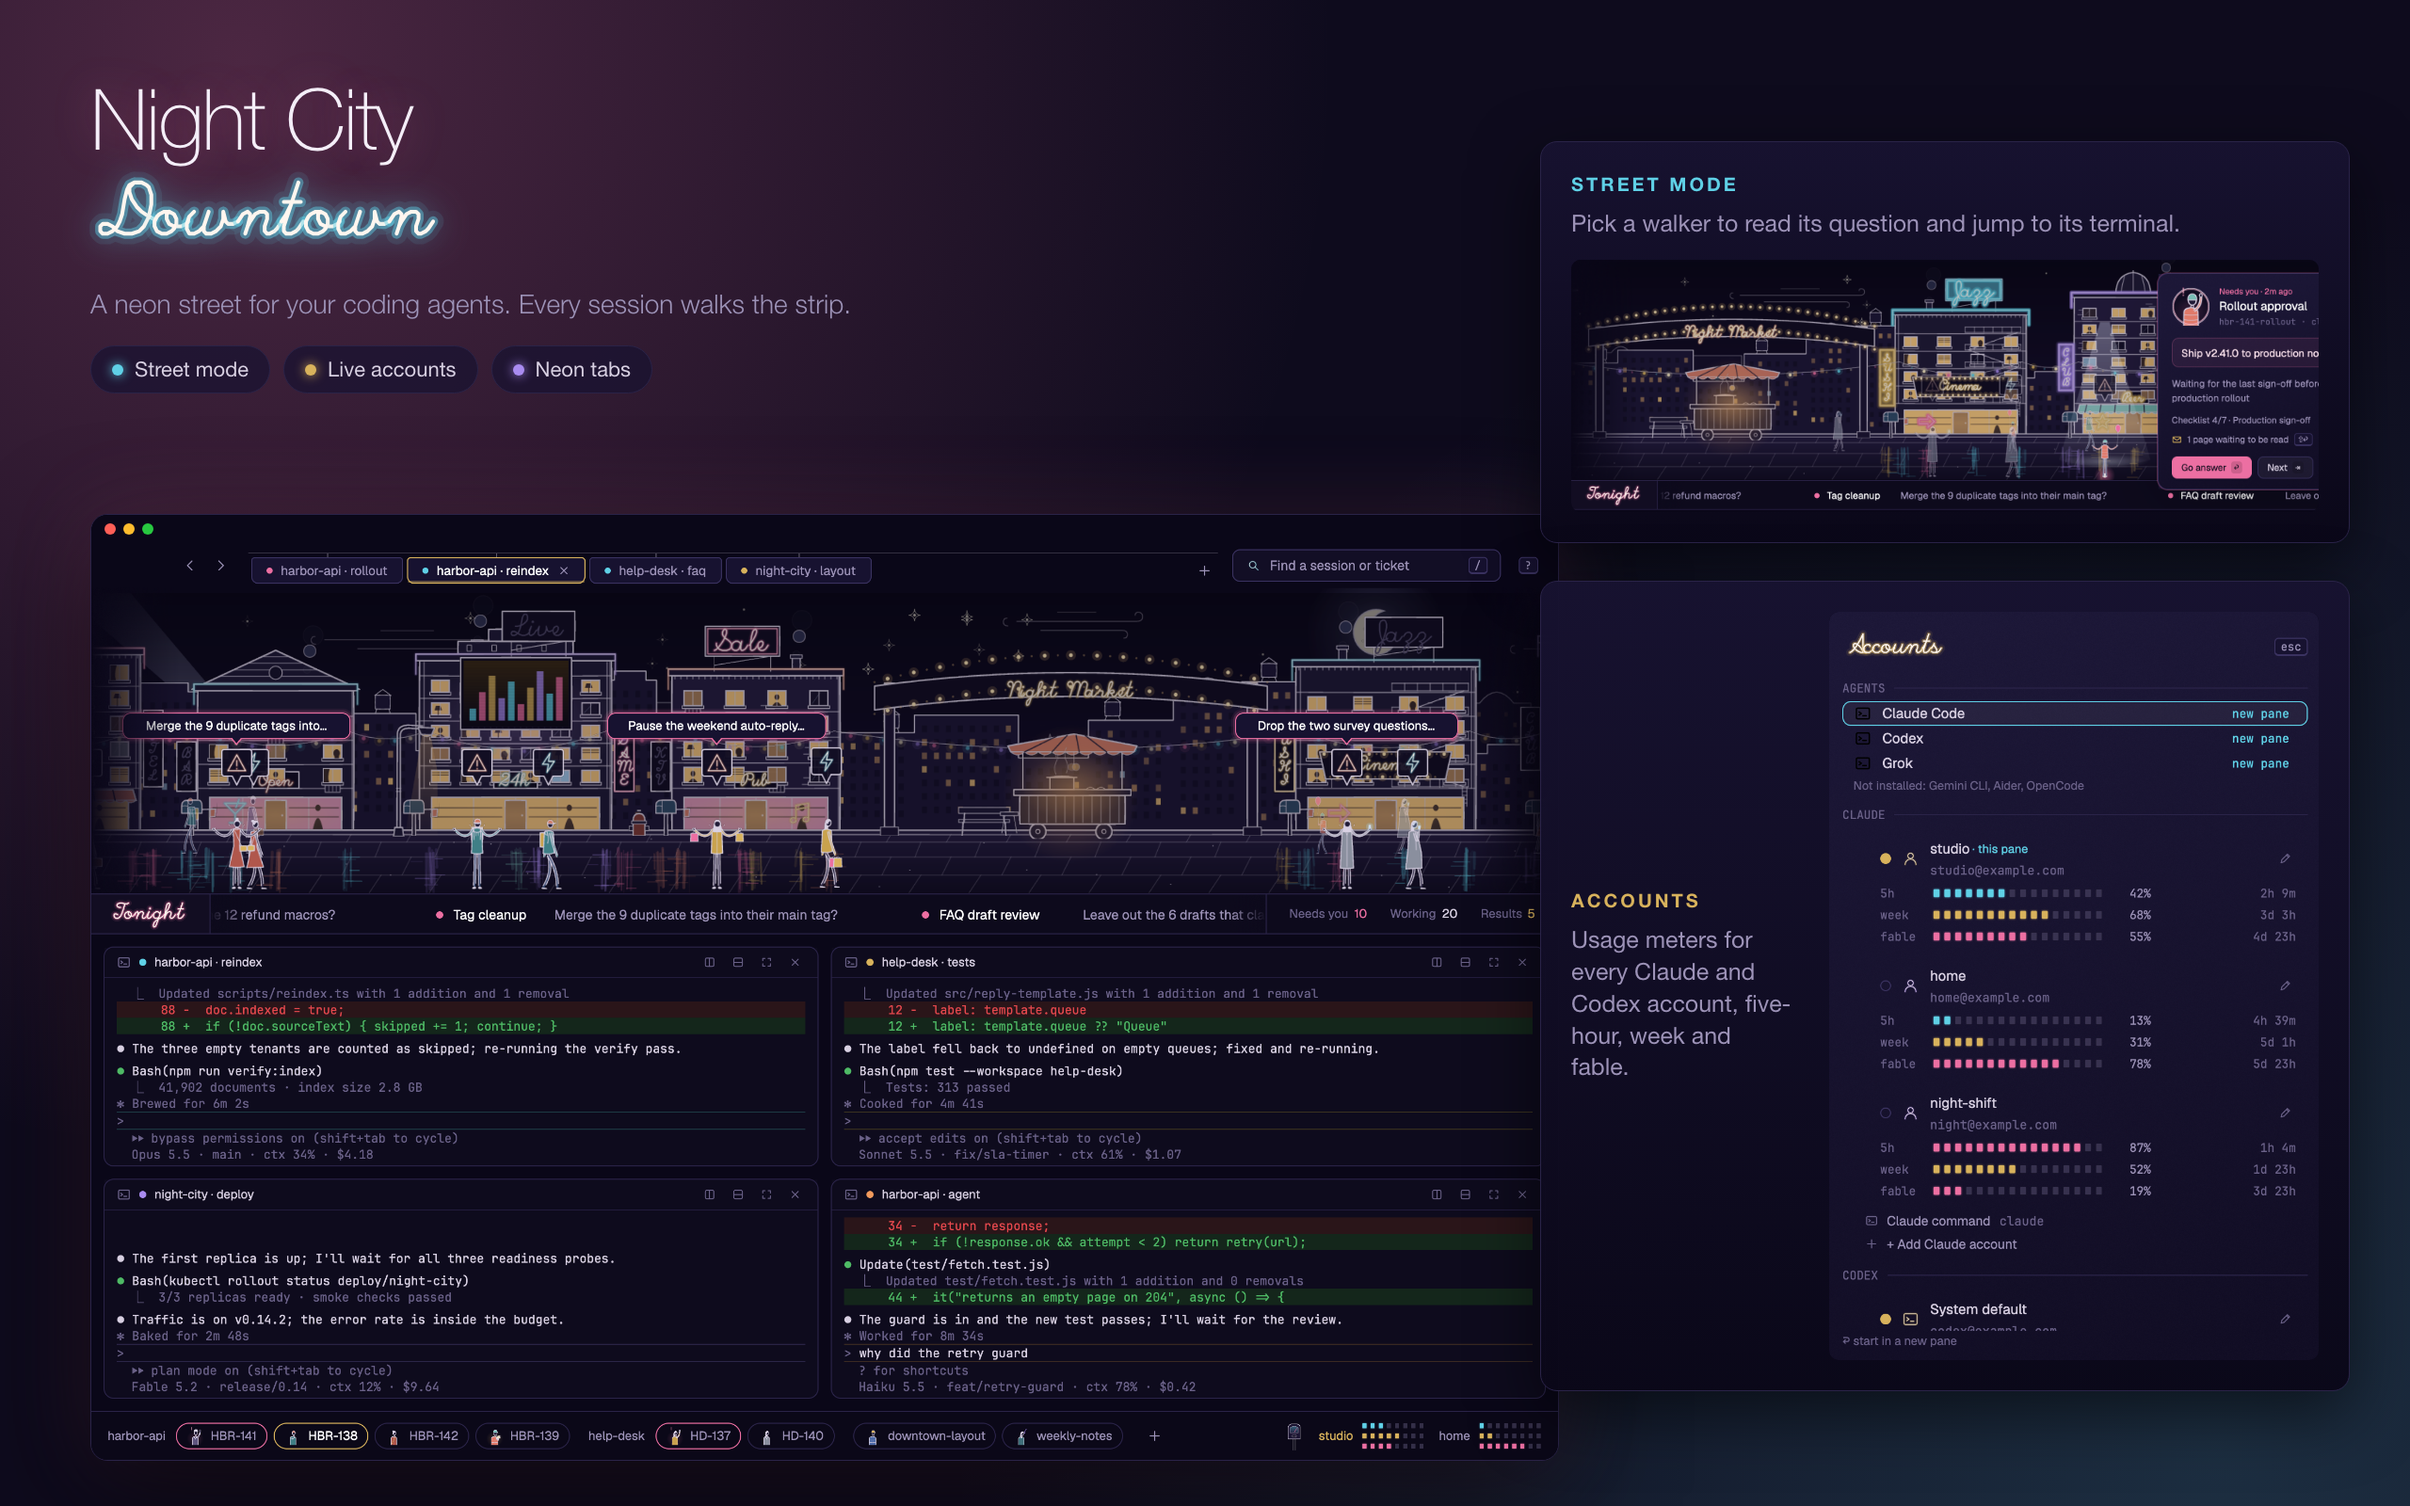
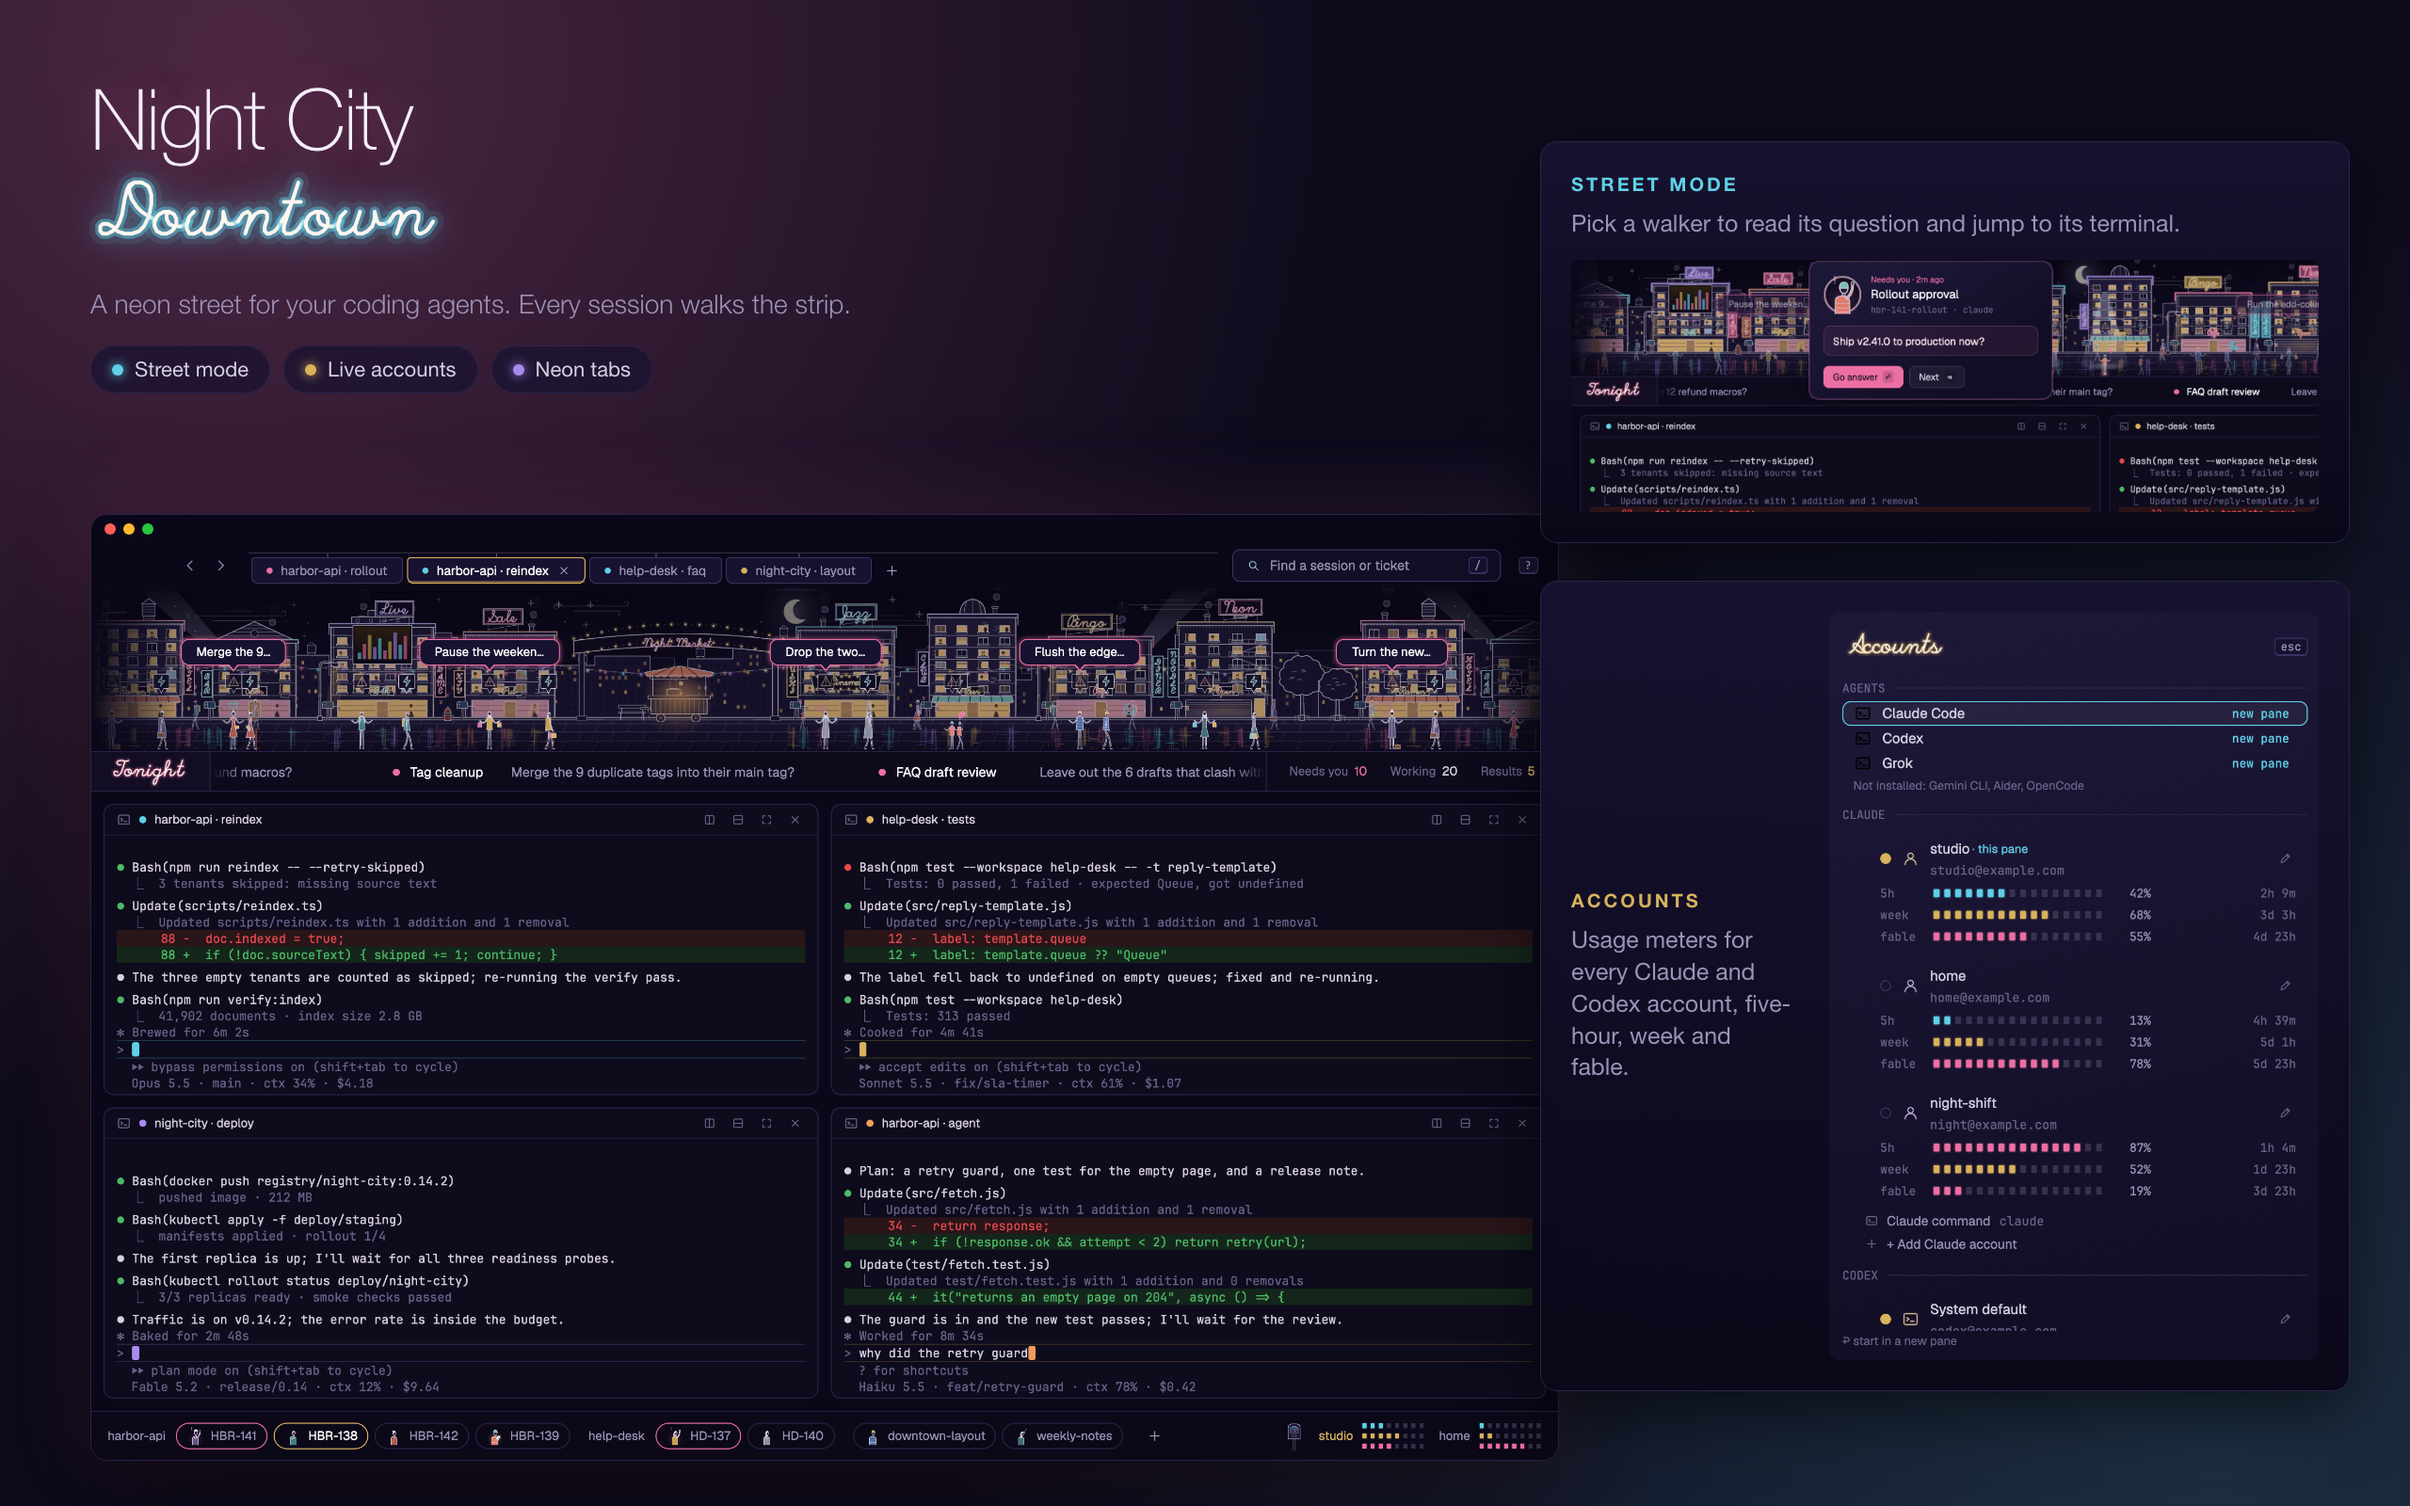
fix: new-tab button back right after the last tab
- The tab strip scrolls without a painted scrollbar; the scrollbar area took the whole strip and pushed the + next to the search box
- Regenerated preview.png and the layout picker picture

diff --git a/mods/night-city-tabs/main.js b/mods/night-city-tabs/main.js
@@ -327,9 +327,10 @@ export default class NightCityTabs extends View {
     };
 
     // The strip is 44 high so the tabs' upper wire, cursor ring and active border are not clipped
-    // by the scrolling area; only the tabs themselves scroll, and the `+` stays outside.
+    // by the scrolling area; only the tabs themselves scroll, and the `+` stays outside. A painted
+    // scrollbar would make the area take the whole strip and push the `+` to its far end.
     const tabScroll = div().id("nc-tab-scroll").min_w(0).h(44).pt(14).px(3).flex().flex_row().items_start().gap(4)
-      .overflow_x_scrollbar().track_scroll(this.scroll)
+      .overflow_x_scroll().track_scroll(this.scroll)
       .on_size_change((_size, cx) => { if (activeIndex >= 0) { this.scroll.scroll_to_item(activeIndex); cx.notify(); } })
       .children(shown.map(tabBody));
 
